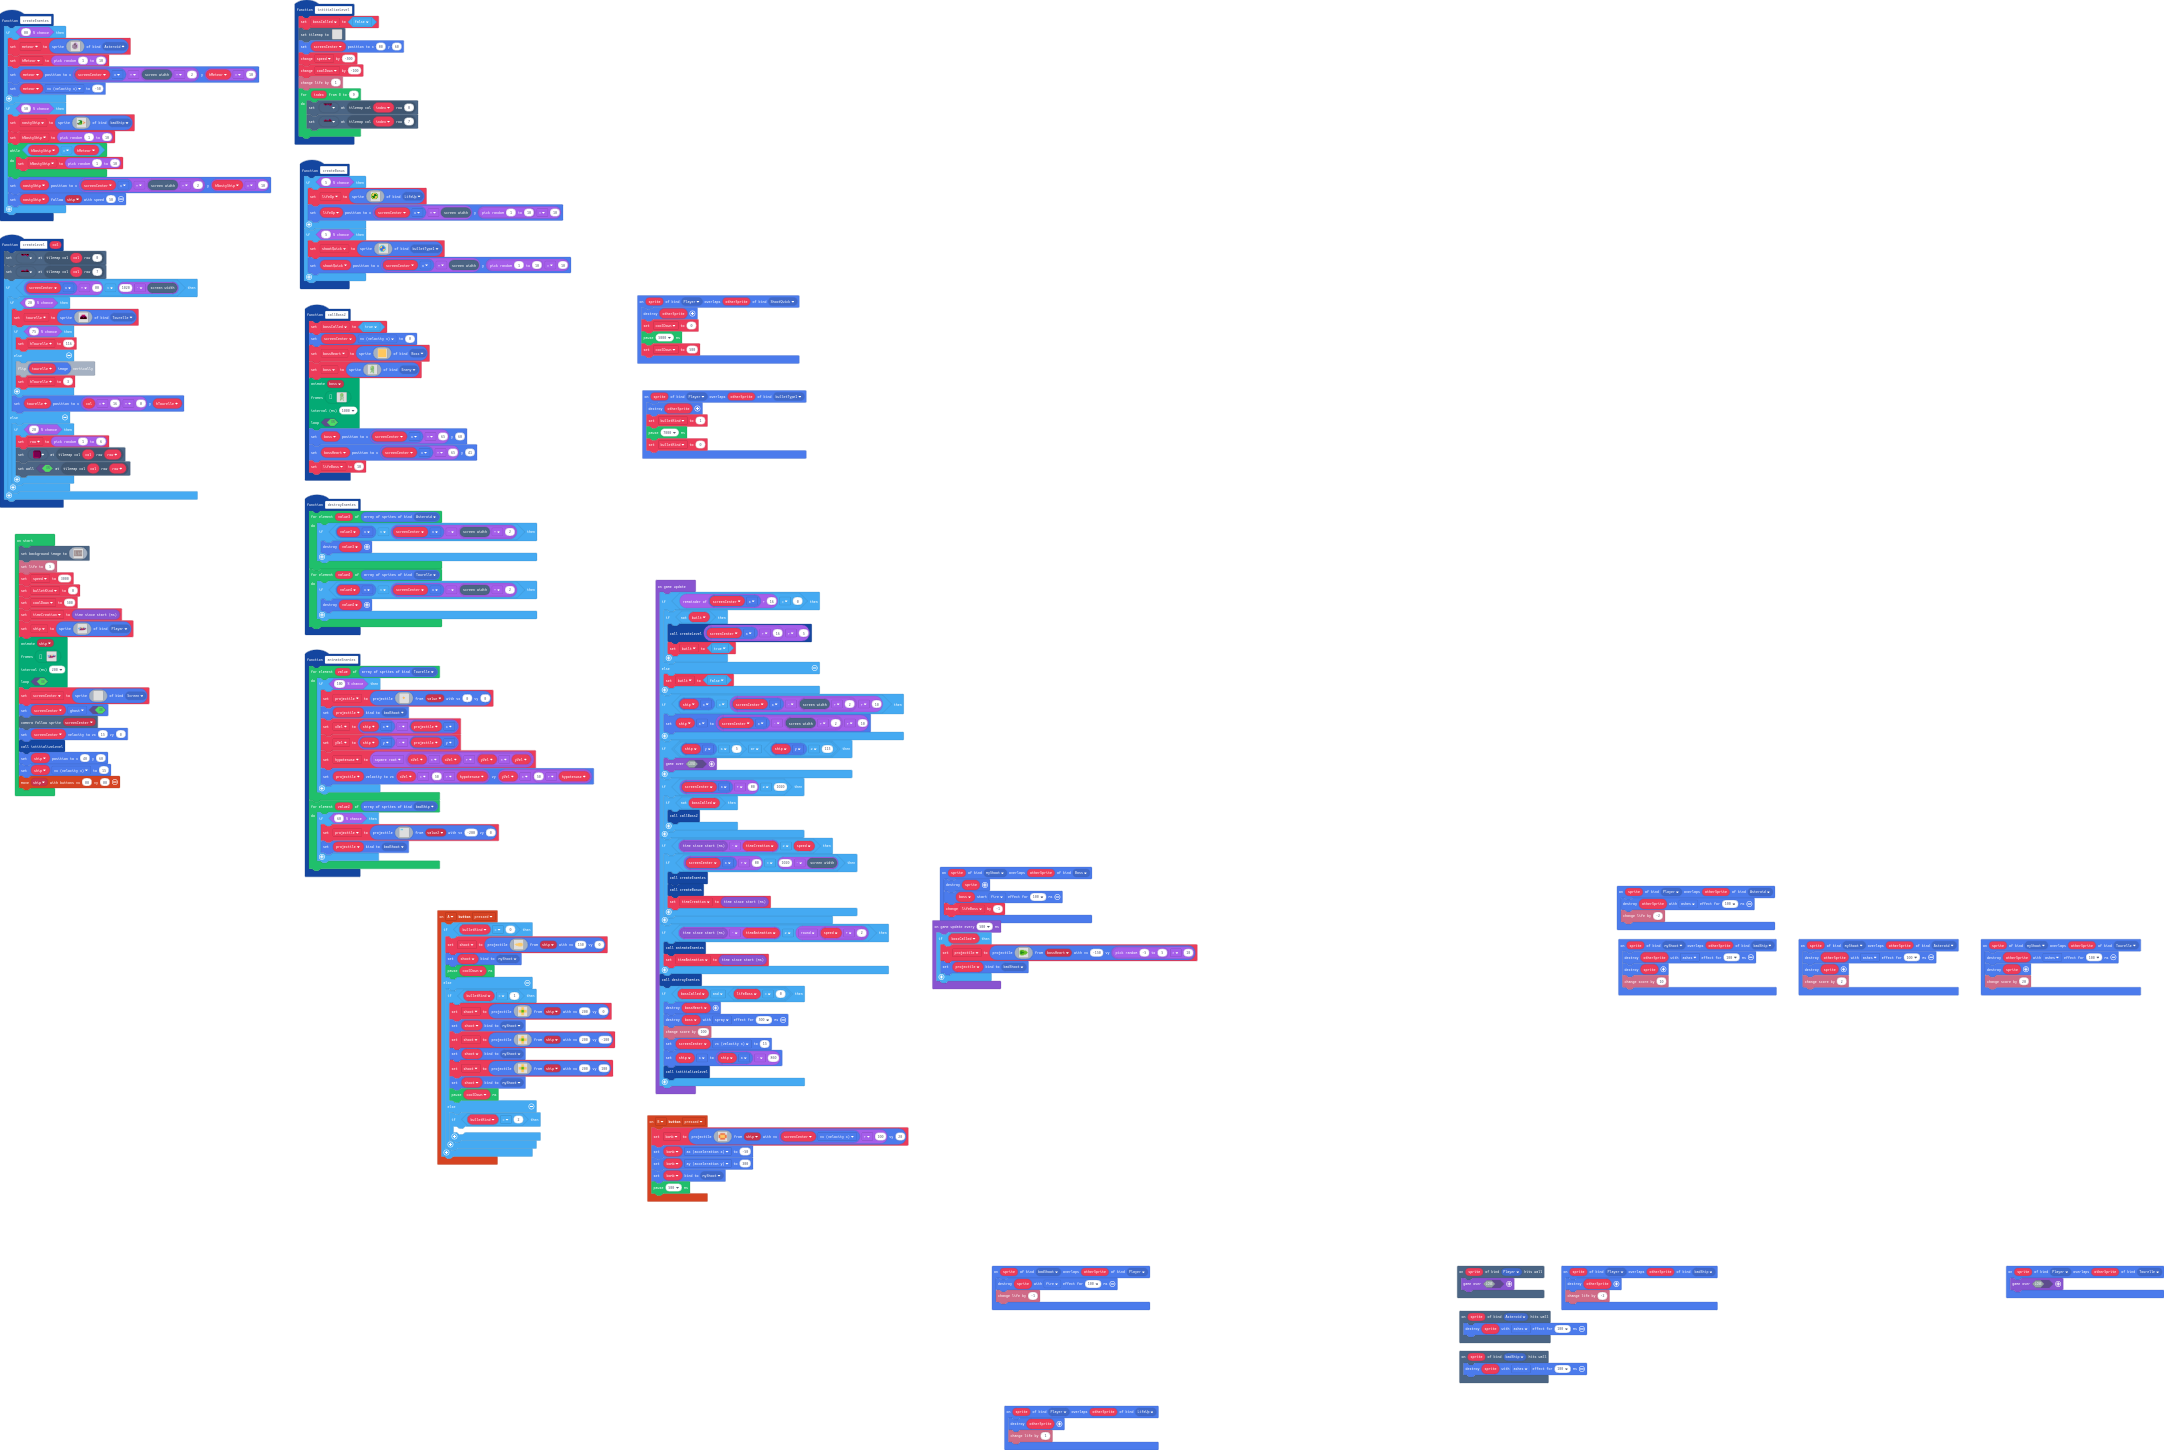
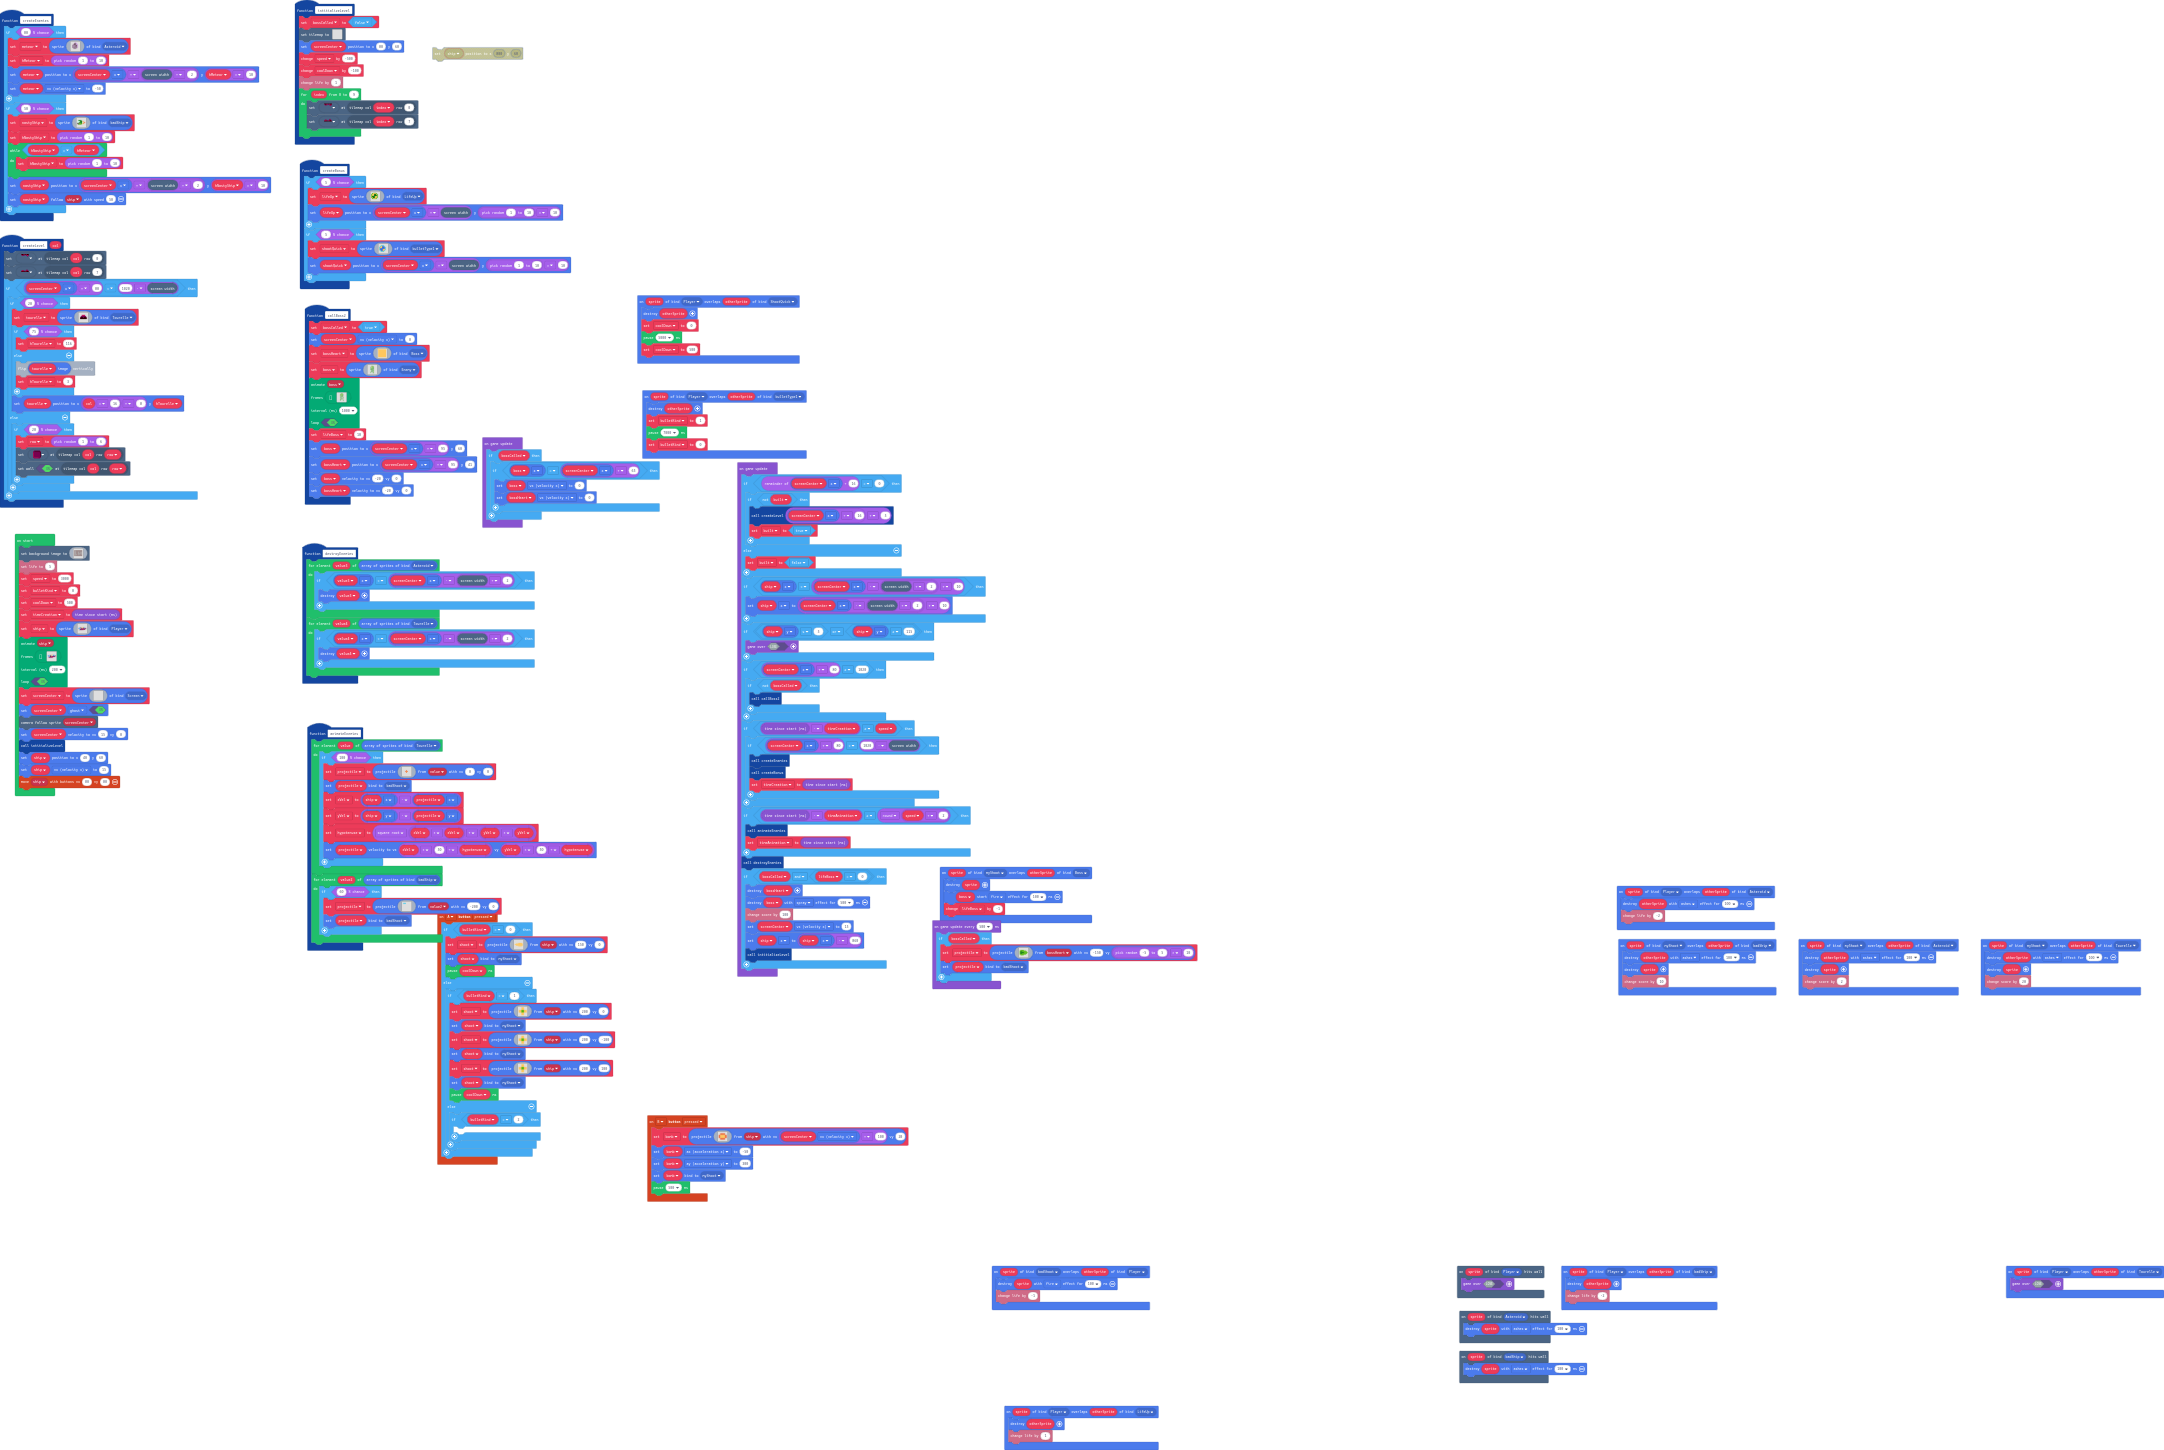
Update main.blocks, main.ts

Changed region(s): [[0.1238, 0.2793, 0.4644, 0.7759], [0.1858, 0.031, 0.2477, 0.0621]]

diff --git a/main.ts b/main.ts
@@ -423,9 +423,11 @@ function callBoss2 () {
     1000,
     true
     )
-    boss.setPosition(screenCenter.x + 65, 60)
-    bossHeart.setPosition(screenCenter.x + 65, 41)
     lifeBoss = 10
+    boss.setPosition(screenCenter.x + 95, 60)
+    bossHeart.setPosition(screenCenter.x + 95, 41)
+    boss.setVelocity(-20, 0)
+    bossHeart.setVelocity(-20, 0)
 }
 function createBonus () {
     if (Math.percentChance(5)) {
@@ -846,6 +848,14 @@ intitializeLevel()
 ship.setPosition(40, 60)
 ship.vx = 15
 controller.moveSprite(ship, 80, 80)
+game.onUpdate(function () {
+    if (bossCalled) {
+        if (boss.x == screenCenter.x + 65) {
+            boss.vx = 0
+            bossHeart.vx = 0
+        }
+    }
+})
 game.onUpdate(function () {
     if (screenCenter.x % 16 == 0) {
         if (!(built)) {
